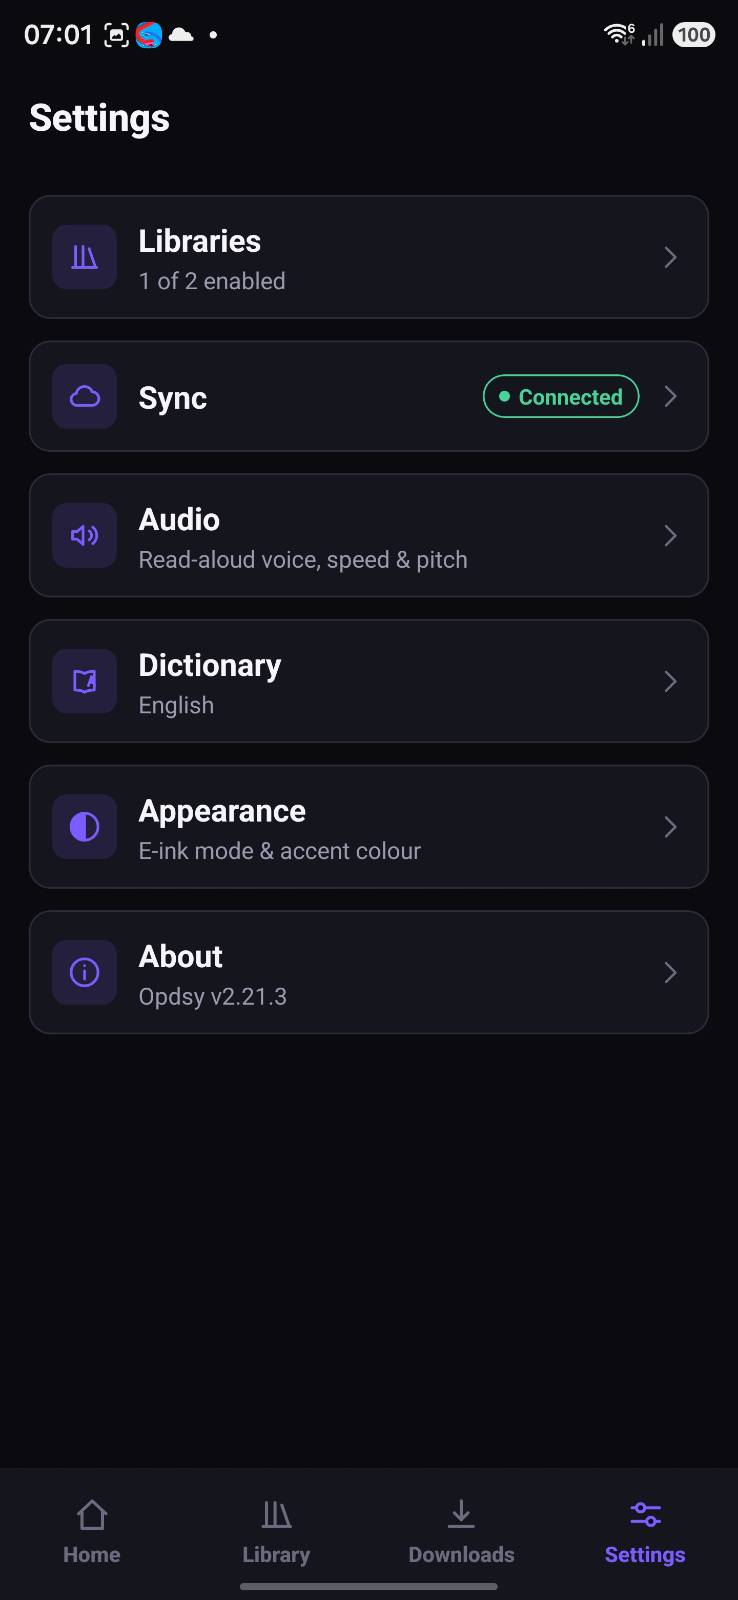
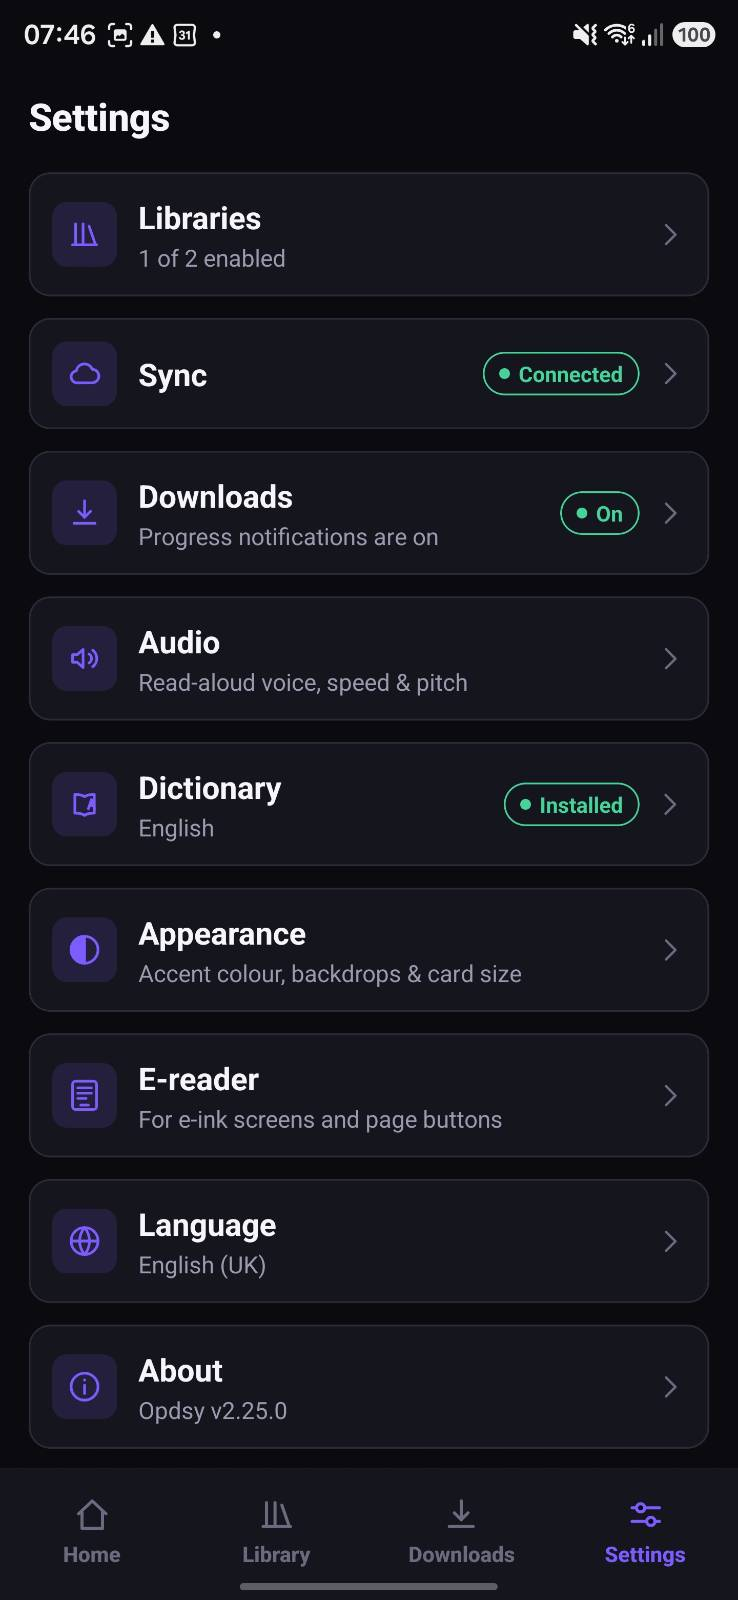
feat(opdsy): refresh settings shots and add the e-reader screen
High-contrast mode and animations moved out of Appearance and into a new
E-reader section in 2.25.0, so the old e-ink shot showed a screen that no
longer exists and contradicted the new Appearance capture. Both e-reader
states are shown, since the black-on-white one is the point of the feature
and the dark one is what most people will first see.

diff --git a/src/data/apps.ts b/src/data/apps.ts
@@ -357,15 +357,16 @@ export const apps: App[] = [
       { src: '/screenshots/opdsy/06-4-dictionary-word.jpg', featured: true, alt: 'OPDSy offline dictionary lookup showing the definition of a tapped word while reading' },
       { src: '/screenshots/opdsy/07-highlights-bookmarks.jpg', alt: 'OPDSy highlights and bookmarks screen with tabs for highlights, bookmarks and looked-up words' },
       { src: '/screenshots/opdsy/08-downloads.jpg', alt: 'OPDSy downloads screen listing books and folders saved for offline reading' },
-      { src: '/screenshots/opdsy/09-settings.jpg', alt: 'OPDSy settings screen with libraries, sync, audio, dictionary, appearance and about' },
+      { src: '/screenshots/opdsy/09-settings.jpg', alt: 'OPDSy settings screen with libraries, sync, downloads, audio, dictionary, appearance, e-reader, language and about' },
       { src: '/screenshots/opdsy/10-libraries.jpg', alt: 'OPDSy libraries screen listing connected OPDS servers that can be reordered, disabled or removed' },
       { src: '/screenshots/opdsy/10-1-edit-library.jpg', alt: 'OPDSy add library form with server type presets for Ubooquity, Komga, Kavita, Calibre-Web, BookOrbit, Grimmory and other OPDS servers' },
       { src: '/screenshots/opdsy/10-2-local-library.jpg', alt: 'OPDSy add local folder screen for reading files already on the device in place' },
       { src: '/screenshots/opdsy/11-audio.jpg', alt: 'OPDSy audio settings for read-aloud speed, pitch and offline or online voices' },
       { src: '/screenshots/opdsy/12-dictionary.jpg', alt: 'OPDSy dictionary settings with the offline English dictionary installed and looked-up words saved per book' },
       { src: '/screenshots/opdsy/13-sync.jpg', alt: 'OPDSy sync settings with toggles for reading progress, favourites, servers and encrypted server sign-ins' },
-      { src: '/screenshots/opdsy/14-appearance.jpg', alt: 'OPDSy appearance settings with high-contrast mode, animation, cover backdrop and accent colour options' },
-      { src: '/screenshots/opdsy/15-eink-mode.jpg', alt: 'OPDSy appearance settings with high-contrast e-ink mode turned on, showing the black-on-white theme' },
+      { src: '/screenshots/opdsy/14-appearance.jpg', alt: 'OPDSy appearance settings with cover backdrops, backdrop parallax, card size and accent colour options' },
+      { src: '/screenshots/opdsy/15-e-reader.jpg', alt: 'OPDSy e-reader settings for e-ink devices, with high-contrast mode, animations and volume key page turns' },
+      { src: '/screenshots/opdsy/16-e-reader-high-contrast.jpg', alt: 'OPDSy e-reader settings with high-contrast mode turned on, showing the black-on-white theme and the choice of which volume key turns the page forward' },
     ],
     tabletScreenshots: [
       { src: '/screenshots/opdsy/tablet/1-home.jpg', alt: 'OPDSy on a tablet — home screen with continue reading and favourites' },
@@ -491,7 +492,7 @@ export const apps: App[] = [
       {
         title: 'E-ink friendly',
         description:
-          'Independent toggles for a high-contrast black-on-white theme and for switching animations off, to avoid ghosting on slow-refresh screens such as Onyx Boox.',
+          'A dedicated E-reader settings screen: independent toggles for a high-contrast black-on-white theme and for switching animations off, to avoid ghosting on slow-refresh screens such as Onyx Boox, plus volume keys that turn the page on devices with physical page buttons.',
       },
       {
         title: 'Read offline, anywhere',
@@ -969,7 +970,7 @@ export const apps: App[] = [
       {
         question: 'Does OPDSy work on e-ink devices and tablets?',
         answer:
-          'Yes. There are independent toggles for a high-contrast black-on-white theme and for switching animations off, to avoid ghosting on slow-refresh screens such as Onyx Boox, and tablets get two-page spreads for both books and comics.',
+          'Yes. A dedicated E-reader settings screen gathers independent toggles for a high-contrast black-on-white theme and for switching animations off, to avoid ghosting on slow-refresh screens such as Onyx Boox, along with volume-key page turns for devices with physical page buttons. Tablets get two-page spreads for both books and comics.',
       },
     ],
     privacy: {
